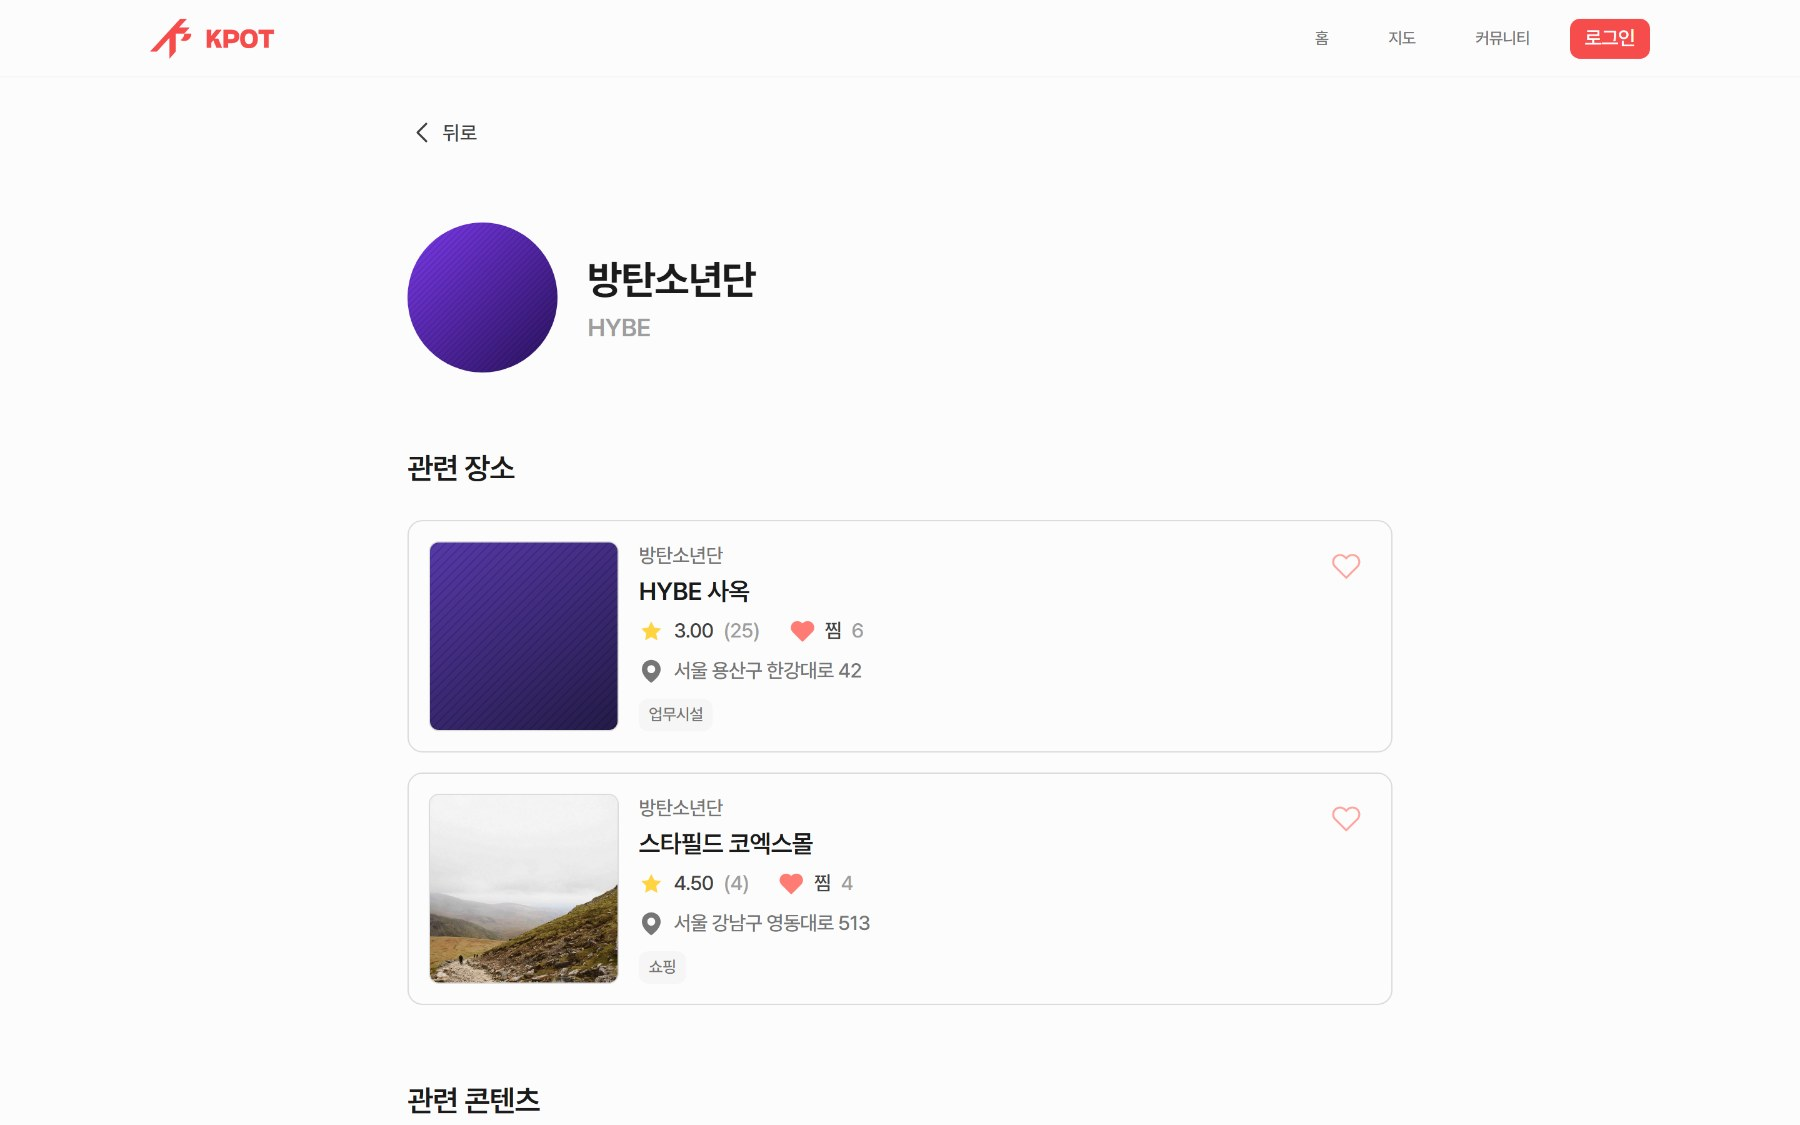
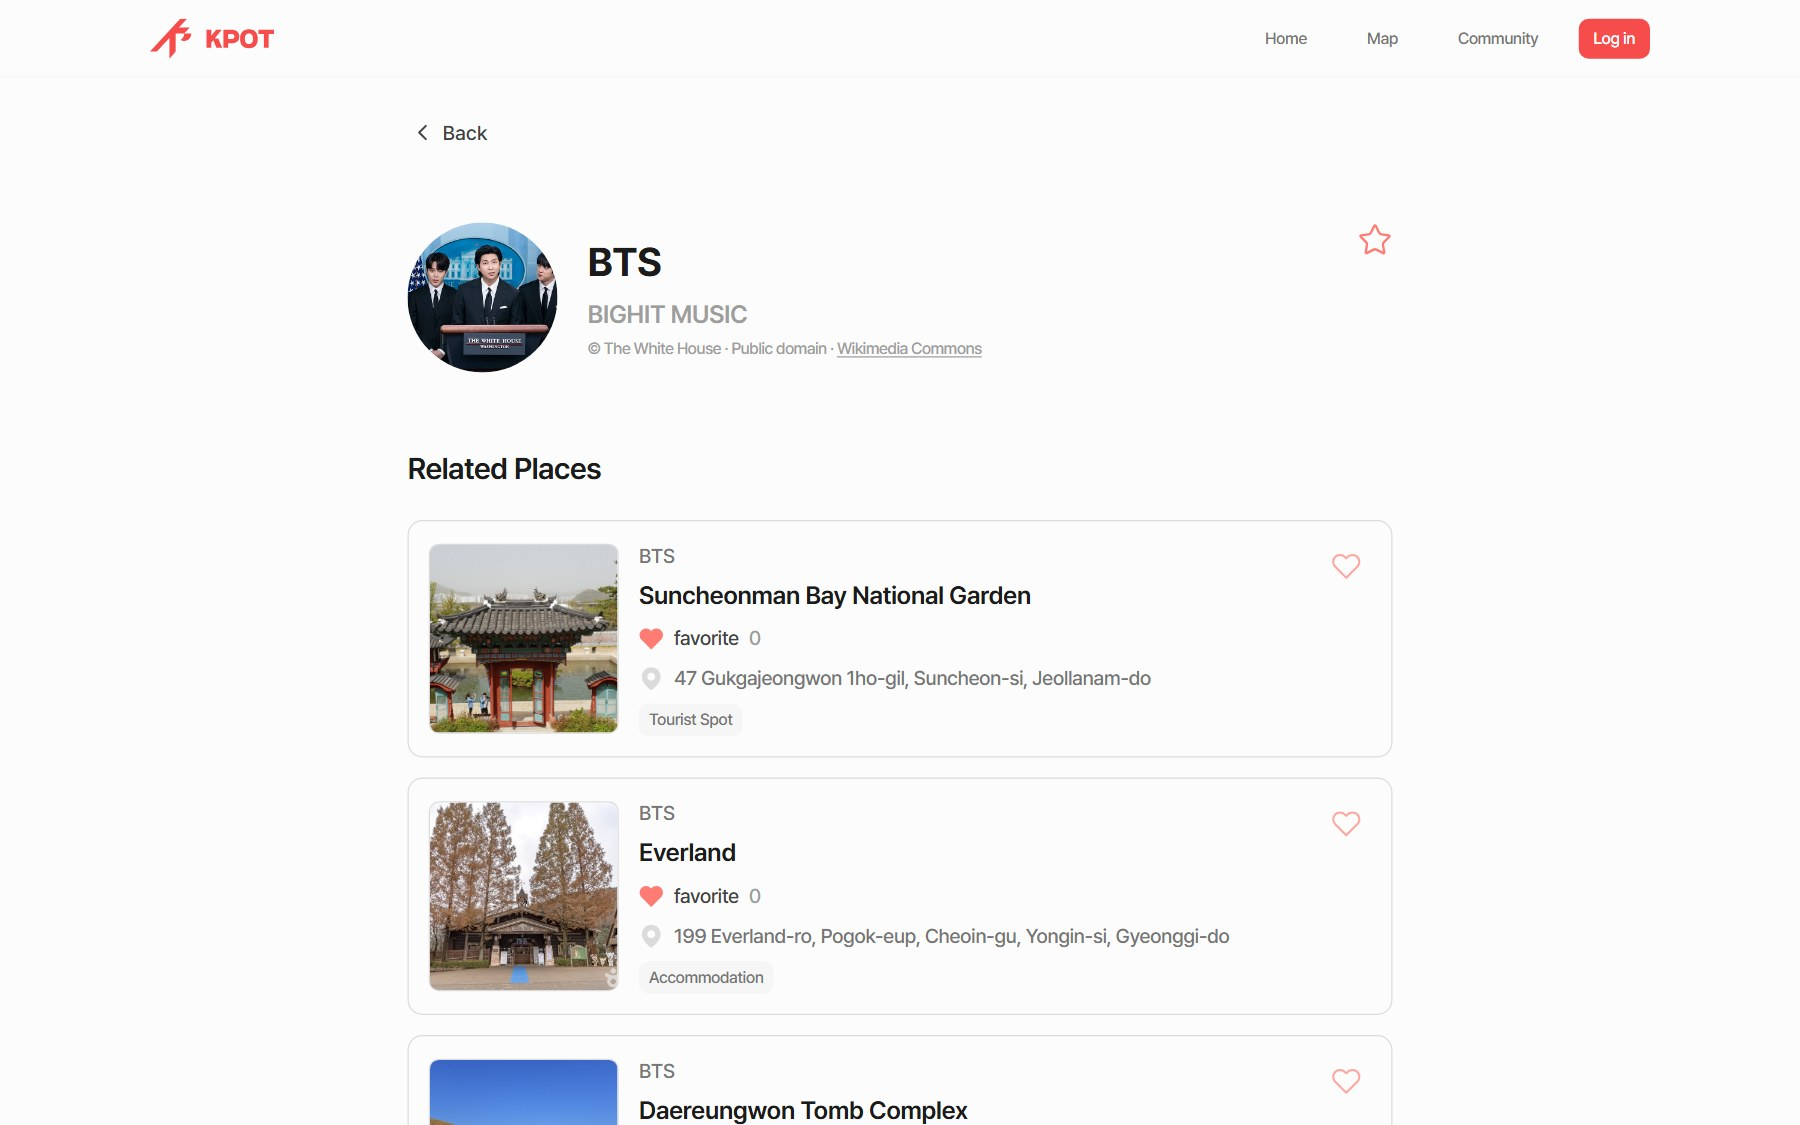
docs: replace profile screenshots with current production screens in English
Banner, 5 desktop screens and the mobile strip are recaptured from kpot.my
(logged out, en-US) as of 2026-09-28; banner pill now lists KO · JA · EN · ZH.

diff --git a/profile/README.md b/profile/README.md
@@ -67,7 +67,7 @@ For global fans, *being a fan* and *planning a trip to Korea* are the same dream
 
 <br/><br/>
 
-**Mobile** — a separate mobile component set for every screen · shown here in **EN · EN · KO · JA** (Chinese added since)
+**Mobile** — a separate mobile component set for every screen · Home, Map, Spot Detail and Artist in English
 
 <img src="./assets/screens/mobile.png" alt="KPOT mobile screens" width="900" />
 
